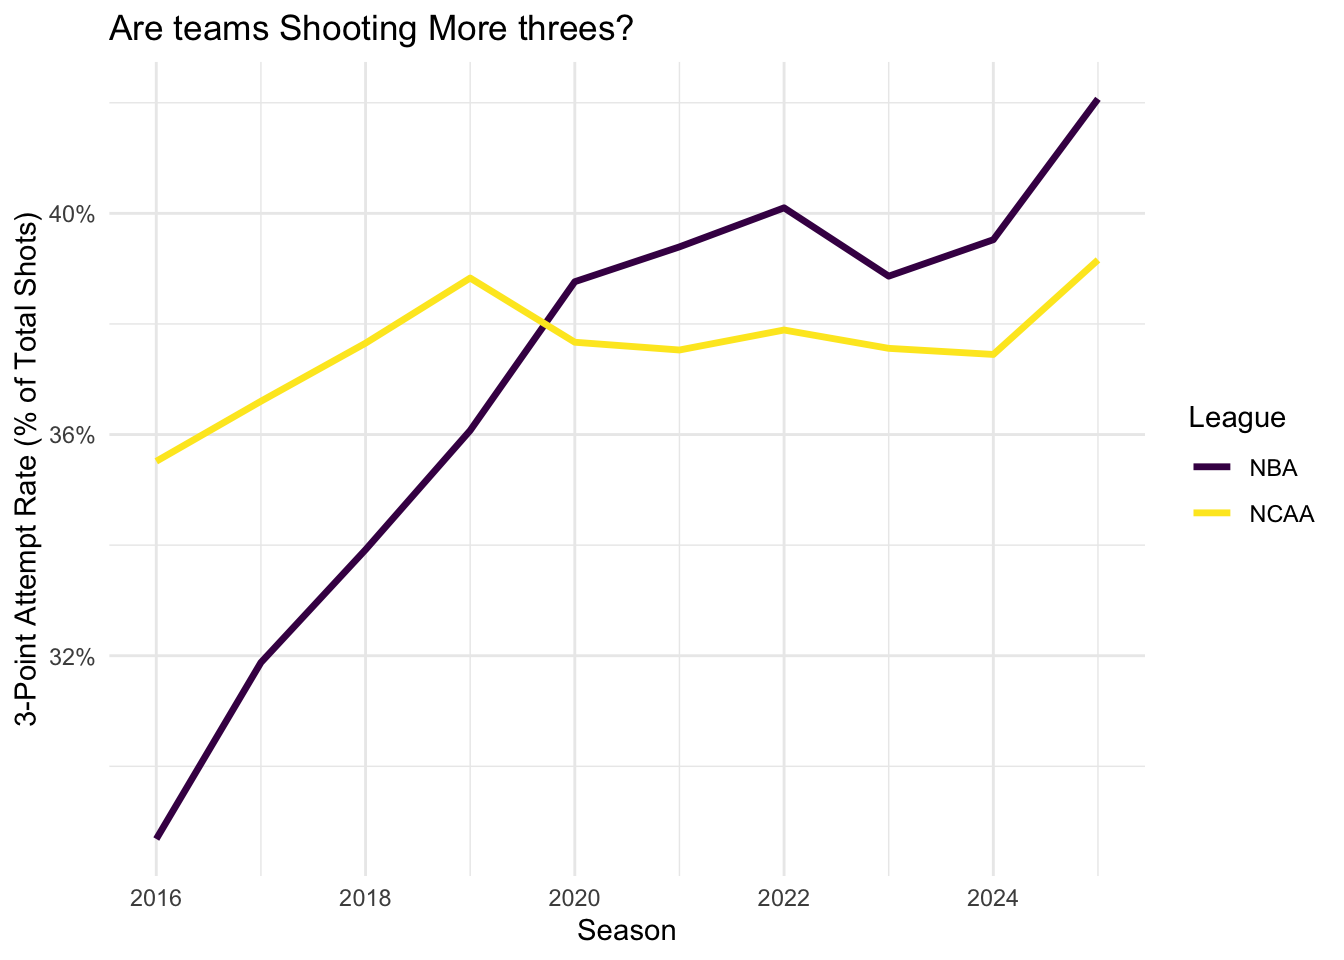
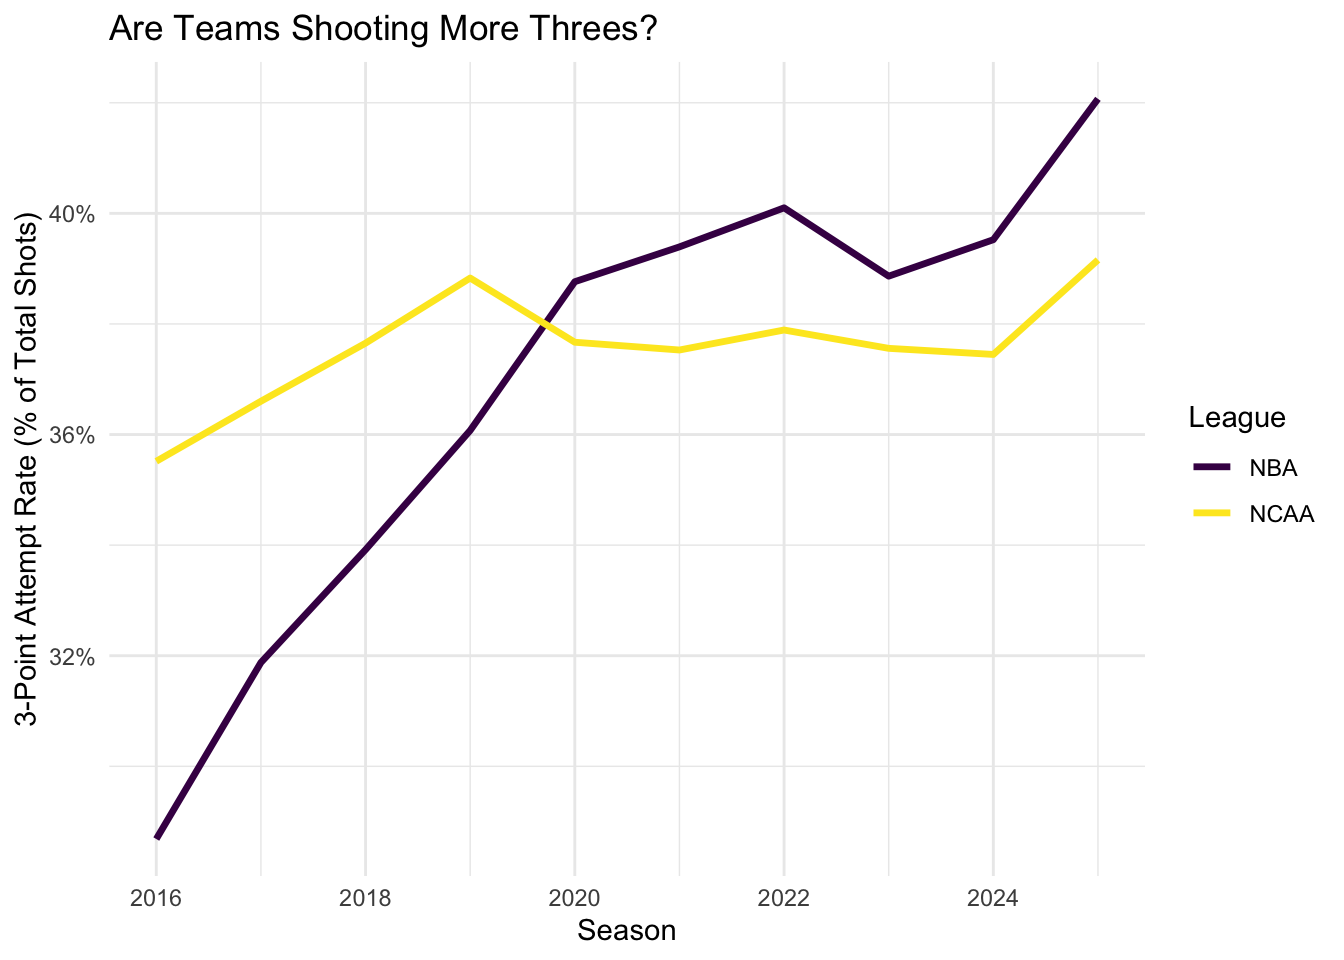
added a couple screenshots from my app

Changed region(s): [[0.125, 0.0, 0.5, 0.0625]]

diff --git a/index.html b/index.html
@@ -120,17 +120,17 @@ pre > code.sourceCode > span > a:first-child::before { text-decoration: underlin
 
 <section id="abstract" class="level2">
 <h2 class="anchored" data-anchor-id="abstract">Abstract</h2>
-<p>This project examines the three point revolution in basketball at both the NBA and NCAA levels by examining shot selection and efficiency. I’m using play by play data from the 2025 season, pulled from the hoopR R package. I categorize the court into 12 different zones to observe shot distribution, field goal percentage, and points per shot. I confirmed that three point rates have been steadily rising for both leagues over the past decade, but more dramatically for the NBA. Further analysis indicates that this is the correct approach for both leagues, and three pointers generate much more value than mid range shots. Teams in both leagues, but especially the NCAA, should continue to look for three point attempts, and try to minimize mid range shots. I’ve also included a shiny app that allows users to compare these things across different matchups of both NBA and NCAA teams or players.</p>
+<p>This project examines the three point revolution in basketball at both the NBA and NCAA levels by examining shot selection and efficiency. I’m using play by play data from the 2025 season, pulled from the hoopR R package. I categorized the court into 12 different zones to observe shot distribution, field goal percentage, and points per shot. I confirmed that three point rates have been steadily rising for both leagues over the past decade, but more dramatically for the NBA. Further analysis indicates that this is the correct approach for both leagues, and three pointers generate much more value than mid range shots. Teams in both leagues, but especially the NCAA, should continue to look for three point attempts, and try to minimize mid range shots. I’ve also included a shiny app that allows users to compare these things across different matchups of both NBA and NCAA teams or players.</p>
 </section>
 <section id="introduction" class="level2">
 <h2 class="anchored" data-anchor-id="introduction">Introduction</h2>
-<p>Over the past decade, basketball has been going through a shift, largely due to analytics. Teams have been viewing the three point shot as more and more valuable, while the mid-range slowly becomes a lost art. Throughout basketball history, people have always been encouraged to take a step in if they have a better chance of making the shot. However, as of late the game has shifted into the idea of getting as many threes and layups as possible.</p>
+<p>Over the past decade, basketball has been going through a shift, largely due to analytics. Teams have been viewing the three point shot as more and more valuable, while the mid-range slowly becomes a lost art. Throughout basketball history, players have always been encouraged to take a step in if they have a better chance of making the shot. However, as of late, the game has shifted towards the idea of getting as many threes and layups as possible.</p>
 <p>Public opinion seems to say that this change has mainly affected the NBA, while college basketball sticks to traditional, fundamental game plans. People seem to think college teams, while obviously shooting more threes than they used to, haven’t fully subscribed to this new ideology of abandoning the mid range.</p>
 <p>For this project, I’m using play-by-play data from the 2024-2025 NBA and NCAA seasons (found in the hoopR R package) to examine shot selection and efficiency at both levels of basketball. I want to determine if this evolution of the three pointer has really affected the NBA more than the college level, and also if this shift in ideology is even the right approach to begin with. Should teams continue to try and maximize their efficiency by eliminating mid range shots, or are teams that subscribe to this philosophy hurting themselves?</p>
-<p>To tackle these questions, I’m going to be breaking the court into 12 hot zones, 5 zones behind the three point line, 5 zones in the midrange, a zone for shots at the rim, and a zone for other shots in the paint. I’m going to be looking at all 30 NBA teams from the 2025 season, but I’m filtering out some college teams so we are only looking at the top 100 teams from the 2025 season. That way we can filter out any weird outliers or really bad college teams.</p>
+<p>To tackle these questions, I’m going to be breaking the court into 12 hot zones, 5 zones behind the three point line, 5 zones in the midrange, a zone for shots at the rim, and a zone for other shots in the paint. I’m going to be looking at all 30 NBA teams from the 2025 season, but I’m filtering out some college teams so we are only looking at the top 100 teams from the 2025 season. That way we don’t have to worry about any weird outliers or really bad college teams.</p>
 </section>
 <section id="are-teams-shooting-more-threes" class="level2">
-<h2 class="anchored" data-anchor-id="are-teams-shooting-more-threes">Are teams Shooting More Threes?</h2>
+<h2 class="anchored" data-anchor-id="are-teams-shooting-more-threes">Are Teams Shooting More Threes?</h2>
 <p>To begin exploring how shot distribution has evolved, let’s first find out if this three point revolution is as drastic as people say.</p>
 <div class="cell">
 <div class="code-copy-outer-scaffold"><div class="sourceCode cell-code" id="cb1"><pre class="sourceCode r code-with-copy"><code class="sourceCode r"><span id="cb1-1"><a href="#cb1-1" aria-hidden="true" tabindex="-1"></a><span class="fu">library</span>(tidyverse)</span>
@@ -166,7 +166,7 @@ pre > code.sourceCode > span > a:first-child::before { text-decoration: underlin
 <span id="cb1-31"><a href="#cb1-31" aria-hidden="true" tabindex="-1"></a>  <span class="fu">theme_minimal</span>() <span class="sc">+</span></span>
 <span id="cb1-32"><a href="#cb1-32" aria-hidden="true" tabindex="-1"></a>  <span class="fu">scale_y_continuous</span>(<span class="at">labels =</span> scales<span class="sc">::</span>percent) <span class="sc">+</span></span>
 <span id="cb1-33"><a href="#cb1-33" aria-hidden="true" tabindex="-1"></a>  <span class="fu">labs</span>(</span>
-<span id="cb1-34"><a href="#cb1-34" aria-hidden="true" tabindex="-1"></a>    <span class="at">title =</span> <span class="st">"Are teams Shooting More threes?"</span>,</span>
+<span id="cb1-34"><a href="#cb1-34" aria-hidden="true" tabindex="-1"></a>    <span class="at">title =</span> <span class="st">"Are Teams Shooting More Threes?"</span>,</span>
 <span id="cb1-35"><a href="#cb1-35" aria-hidden="true" tabindex="-1"></a>    <span class="at">y =</span> <span class="st">"3-Point Attempt Rate (% of Total Shots)"</span>,</span>
 <span id="cb1-36"><a href="#cb1-36" aria-hidden="true" tabindex="-1"></a>    <span class="at">x =</span> <span class="st">"Season"</span>,</span>
 <span id="cb1-37"><a href="#cb1-37" aria-hidden="true" tabindex="-1"></a>    <span class="at">color =</span> <span class="st">"League"</span></span>
@@ -316,7 +316,7 @@ pre > code.sourceCode > span > a:first-child::before { text-decoration: underlin
 </section>
 <section id="shot-distribution" class="level2">
 <h2 class="anchored" data-anchor-id="shot-distribution">Shot Distribution</h2>
-<p>With three point attempts clearly on the rise, let’s focus on just the 2025 year. First we can look at where exactly the most shots are being taken on the court.</p>
+<p>With three point attempts clearly on the rise, let’s focus on just the 2025 year. First, we can look at where exactly the most shots are being taken on the court.</p>
 <div class="cell">
 <div class="code-copy-outer-scaffold"><div class="sourceCode cell-code" id="cb3"><pre class="sourceCode r code-with-copy"><code class="sourceCode r"><span id="cb3-1"><a href="#cb3-1" aria-hidden="true" tabindex="-1"></a><span class="co"># Compute shot count per zone per league</span></span>
 <span id="cb3-2"><a href="#cb3-2" aria-hidden="true" tabindex="-1"></a>zone_counts <span class="ot">&lt;-</span> shot_df <span class="sc">|&gt;</span></span>
@@ -461,8 +461,9 @@ pre > code.sourceCode > span > a:first-child::before { text-decoration: underlin
 </section>
 <section id="shiny-app" class="level2">
 <h2 class="anchored" data-anchor-id="shiny-app">Shiny App</h2>
-<p>While the visualizations above help us examine shot selection and answer our research questions, I wanted to make a shiny app that allows for more exploration. Users can select Either NBA or NCAA teams and players to compare. You can look at all the things we talked about above like their shot distribution, field goal percentage, and points per shot. This can be used to compare different match ups before games, compare college players with their NBA comparisons before a draft, or anything else somebody might be interested in. Zones with fewer than 15 shots will be faded to help indicate small sample sizes, which is sometimes relevant when looking at certain players.</p>
-<p>The code and link to the shiny app can be found below: <a href="https://jacobilafferty.shinyapps.io/NBAvsNCAA/">ShinyApp</a></p>
+<p>While the visualizations above help us examine shot selection and answer our research questions, I wanted to make a shiny app that allows for more exploration. Users can select Either NBA or NCAA teams and players to compare. You can look at all the things we talked about above like their shot distribution, field goal percentage, and points per shot. This can be used to compare different match ups before games, compare college players with their NBA comparisons before a draft, or anything else somebody might be interested in (see some examples below). Zones with fewer than 15 shots will be faded to help indicate small sample sizes, which is sometimes relevant when looking at certain players.</p>
+<p>The code, a couple examples, and the link to the shiny app can be found below: <a href="https://jacobilafferty.shinyapps.io/NBAvsNCAA/">ShinyApp</a></p>
+<p><img src="Flagg_James.png" class="img-fluid"> <img src="Boston_Memphis.png" class="img-fluid"></p>
 <div class="cell">
 <div class="code-copy-outer-scaffold"><div class="sourceCode cell-code" id="cb7"><pre class="sourceCode r code-with-copy"><code class="sourceCode r"><span id="cb7-1"><a href="#cb7-1" aria-hidden="true" tabindex="-1"></a>nba_rosters  <span class="ot">&lt;-</span> hoopR<span class="sc">::</span><span class="fu">load_nba_player_box</span>(<span class="at">seasons =</span> <span class="dv">2025</span>) <span class="sc">|&gt;</span></span>
 <span id="cb7-2"><a href="#cb7-2" aria-hidden="true" tabindex="-1"></a>  <span class="fu">select</span>(athlete_id, athlete_display_name) <span class="sc">|&gt;</span> <span class="fu">distinct</span>()</span>
